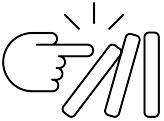
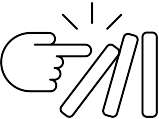
ikon elhelyezése

diff --git a/granite.html b/granite.html
@@ -123,7 +123,7 @@
     </div>
     <div class="csik mobil-margok">
         <div class="szurkecsik footsentence">
-            <img src="img/domino.png" style="height: 3em; margin-right: 20px;">
+            <img src="img/domino.png" style="height: 3em; margin: 10px auto; display: block;">
             <div>It's a total misconception to believe that granite is some kind of invulnerable,
                 sacred substance. It's
                 just like any other material in our surroundings. It has its own 'enemies.' <br><br>It's time to topple

diff --git a/css/style.css b/css/style.css
@@ -139,9 +139,6 @@ body {
     margin-right: auto;
     line-height: 2em;
     text-align: justify;
-    display: flex;
-    align-items: flex-start;
-
 }
 
 
